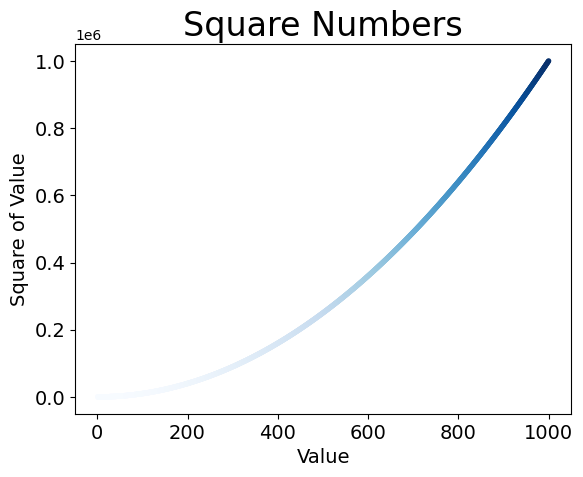
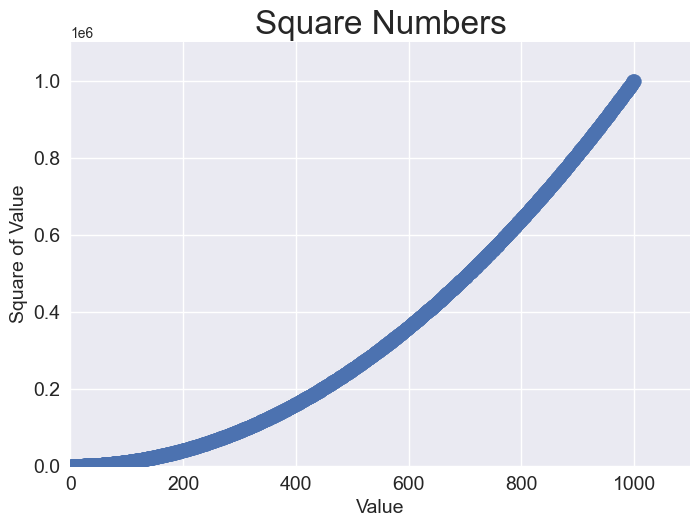
data = "绘制图形"

diff --git a/from_introduction_to_practice/chapter_17使用API/python_repos_visval.py b/from_introduction_to_practice/chapter_17使用API/python_repos_visval.py
@@ -1,0 +1,74 @@
+import requests
+import plotly.express as px
+
+# 执行 API 调用并查看响应
+# URL 的主要部分
+# https://api.github.com GitHub的API地址
+# search/repositories 让API搜索GitHub上的所有仓库
+# ? 指出需要传递一个参数
+# q= 指定查询
+# language:python 获取语言为python的仓库
+# +sort:stars 指定将项目按星级排序
+# stars:>10000
+url = "https://api.github.com/search/repositories"
+# 查询字符串
+url += "?q=language:python+sort:stars+stars:>10000"
+# headers是http请求的请求头，给服务器发送额外的信息。
+# Accept告诉服务器我们作为客户端想要接受的数据类型。
+headers = {"Accept": "application/vnd.github.v3+json"}
+# 使用requests的get方法获取信息
+r = requests.get(url, headers=headers)
+print(f"Status code: {r.status_code}")
+"""运行结果。
+Status code: 200  # 状态码，200请求成功。4开头客户端错误，5错误服务端错误
+
+--------------------------------------------------"""
+
+# 使用json()方法将这些信息转换为一个 Python 字典
+response_dict = r.json()
+# 打印字典的所有键
+print(response_dict.keys())
+"""运行结果
+dict_keys(['total_count', 'incomplete_results', 'items'])
+total_count //python项目数量。
+incomplete_results //GitHub是否处理完查询，True 未完成；False 完成。
+items //python项目的详细信息。
+"""
+
+print(f"Total repositories: {response_dict['total_count']}")
+print(f"Complete results: {not response_dict['incomplete_results']}")
+"""运行结果
+Total repositories: 427  //指出API调用返回了多少个Python仓库。
+Complete results: True  //GitHub是否有足够的时间处理完这个查询。打印与之相反的值：如果为 True，就表明收到了完整的结果集。
+
+--------------------------------------------------"""
+
+# 探索有关仓库的信息。
+# 与item关联的值是一个列表，其中包含很多字典，而每一个字典都吧包含有关一个python仓库的信息。
+repo_dicts = response_dict['items']
+print(f"Repositories returned: {len(repo_dicts)}")  # 仓库数量及列表的长度
+# 研究第一个仓库
+repo_dict = repo_dicts[0]  # 探索列表中的第一个字典
+print(f"\nKeys: {len(repo_dict)}")  # 第一个仓库信息量及字典的长度
+#  第一个仓库的所有key，看看其中包含哪些信息。
+# for key in sorted(repo_dict.keys()):
+#     print(key)
+
+"""运行结果
+Repositories returned: 30  //第一页的仓库数量
+
+Keys: 80  //第一个仓库信息
+allow_forking  //其中包含哪些信息
+archive_url
+
+"""
+# 探索其中包含的信息
+print(f"\nSelected(选择) information（信息） about first repository（存储库）:")
+for repo_dict in repo_dicts:
+    print(f"Name(项目名称): {repo_dict['name']}")
+    print(f"Owner（所有者的登录名）: {repo_dict['owner']['login']}")  # owner访问所有者的字典，login获取登录名。
+    print(f"Stars（项目获得星星数）: {repo_dict['stargazers_count']}")
+    print(f"Repository（项目仓库url）: {repo_dict['html_url']}")
+    print(f"Created（项目创建时间）: {repo_dict['created_at']}")
+    print(f"Updated（项目最后更新时间）: {repo_dict['updated_at']}")
+    print(f"Description（仓库描述）: {repo_dict['description']}")

diff --git a/mpl_squares/scatter_squares.py b/mpl_squares/scatter_squares.py
@@ -1,29 +1,28 @@
 """绘制简单的散点图"""
-
 import matplotlib.pyplot as plt
 
-# 切换为图形界面显示的终端TkAgg
-# plt.matplotlib.use('TkAgg')
-
+# 使用 scatter() 绘制一系列点
 # x_values = [1, 2, 3, 4, 5]
 # y_values = [1, 4, 9, 16, 25]
-x_values = list(range(1, 1001))
+
+# 自动计算数据，将系列点连成一条线
+x_values = range(1, 1001)
 y_values = [x**2 for x in x_values]
 
+plt.style.use('seaborn')
+fig, ax = plt.subplots()
+ax.scatter(x_values, y_values, s=100)
+# 设置图题并给坐标轴加上标签
+ax.set_title("Square Numbers", fontsize=24)
+ax.set_xlabel("Value", fontsize=14)
+ax.set_ylabel("Square of Value", fontsize=14)
+# 设置刻度标记的样式
+ax.tick_params(labelsize=14)
 
-# 绘制散点图。
-"""输入值, 输出值, c=线条颜色, cmap=plt.cm.指定映射的颜色, edgecolor='none'删除数据点轮廓, s=数据点大小。"""
-# c='red' //自定义颜色，cmap参数需删除
-# c=y_values, cmap=plt.cm.Blues  //颜色映射
-plt.scatter(x_values, y_values, c=y_values, cmap=plt.cm.Blues, edgecolor='none', s=15)
+# 设置每个坐标轴的取值范围
+ax.axis([0, 1100, 0, 1_100_000])
+# 保存绘图
+plt.savefig('scatter_squares_plot.png', bbox_inches='tight')
+# 显示绘图
+plt.show()
 
-
-# 设置图表标题并给坐标轴加上标签。
-plt.title("Square Numbers", fontsize=24)  # 设置图形标题
-plt.xlabel("Value", fontsize=14)  # 设置图形x轴标签
-plt.ylabel("Square of Value", fontsize=14)  # 设置图形y轴标签
-plt.tick_params(axis='both', which='major', labelsize=14)  # 设置刻度标记的大小
-
-# 装饰图形。
-plt.savefig('scatter_squares_plot.png', bbox_inches='tight')  # 自动保存图表。
-plt.show()  # 显示图形。

diff --git a/mpl_squares/mpl_squares折线图.py b/mpl_squares/mpl_squares折线图.py
@@ -1,0 +1,29 @@
+"""绘制简单的折线图"""
+import matplotlib.pyplot as plt
+
+# 切换为图形界面显示的终端TkAgg
+# ax.matplotlib.use('TkAgg')
+
+input_values = list(range(1, 6))  # 输入数据
+squares = [1, 4, 9, 16, 25]  # 输出数据
+
+# 绘制折线图。
+
+# 使用内置样式
+plt.style.use('seaborn')
+
+# 调用subplots()函数，在一个图形（figure）中绘制一或多个绘图（plot）。
+# 变量fig 表示由生成的一系列绘图构成的整个图形。
+# 变量 ax 表示图形中的绘图，在大多数情况下，使用这个变量来定义和定制绘图。
+fig, ax = plt.subplots()
+"""输入值x轴, 输出值y轴,linewidth=线条粗细。"""
+ax.plot(input_values, squares, linewidth=5)
+
+# 设置图表标题并给坐标轴加上标签。
+ax.set_title("Square Numbers", fontsize=24)  # 设置图形标题
+ax.set_xlabel("Value", fontsize=14)  # 设置图形x轴标签
+ax.set_ylabel("Square of Value", fontsize=14)  # 设置图形y轴标签
+ax.tick_params(axis='both', which='major', labelsize=14)  # 设置刻度标记的大小
+
+# ax.savefig('mpl_squares_plot.png', bbox_inches='tight')  # 自动保存图表。
+plt.show()  # 打开 Matplotlib 查看器并显示绘图
